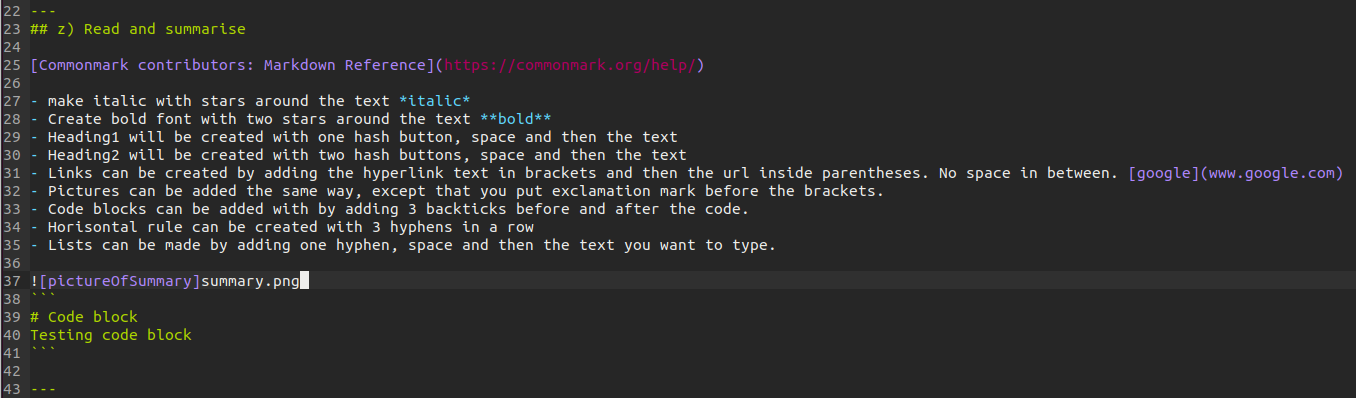
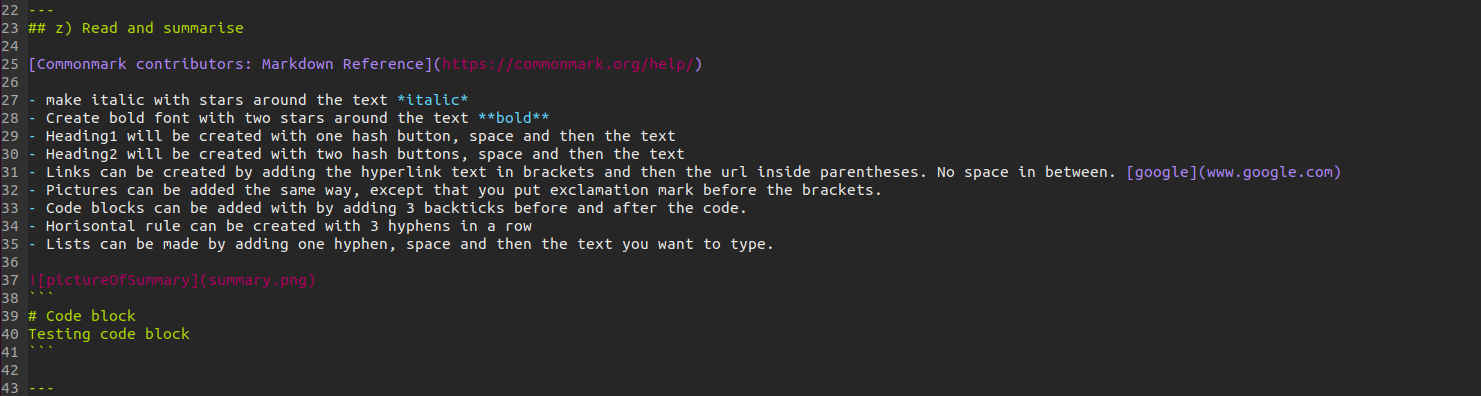
edit read and summarize task

Changed region(s): [[0.0, 0.0, 0.9912, 1.0]]

diff --git a/configurationmanagement3.md b/configurationmanagement3.md
@@ -34,7 +34,7 @@ e) Optional: Own dog food. Adjust one of the machines you are using with Salt.
 - Horisontal rule can be created with 3 hyphens in a row
 - Lists can be made by adding one hyphen, space and then the text you want to type.
 
-![pictureOfSummary]summary.png
+![pictureOfSummary](summary.png)
 ```
 # Code block
 Testing code block
